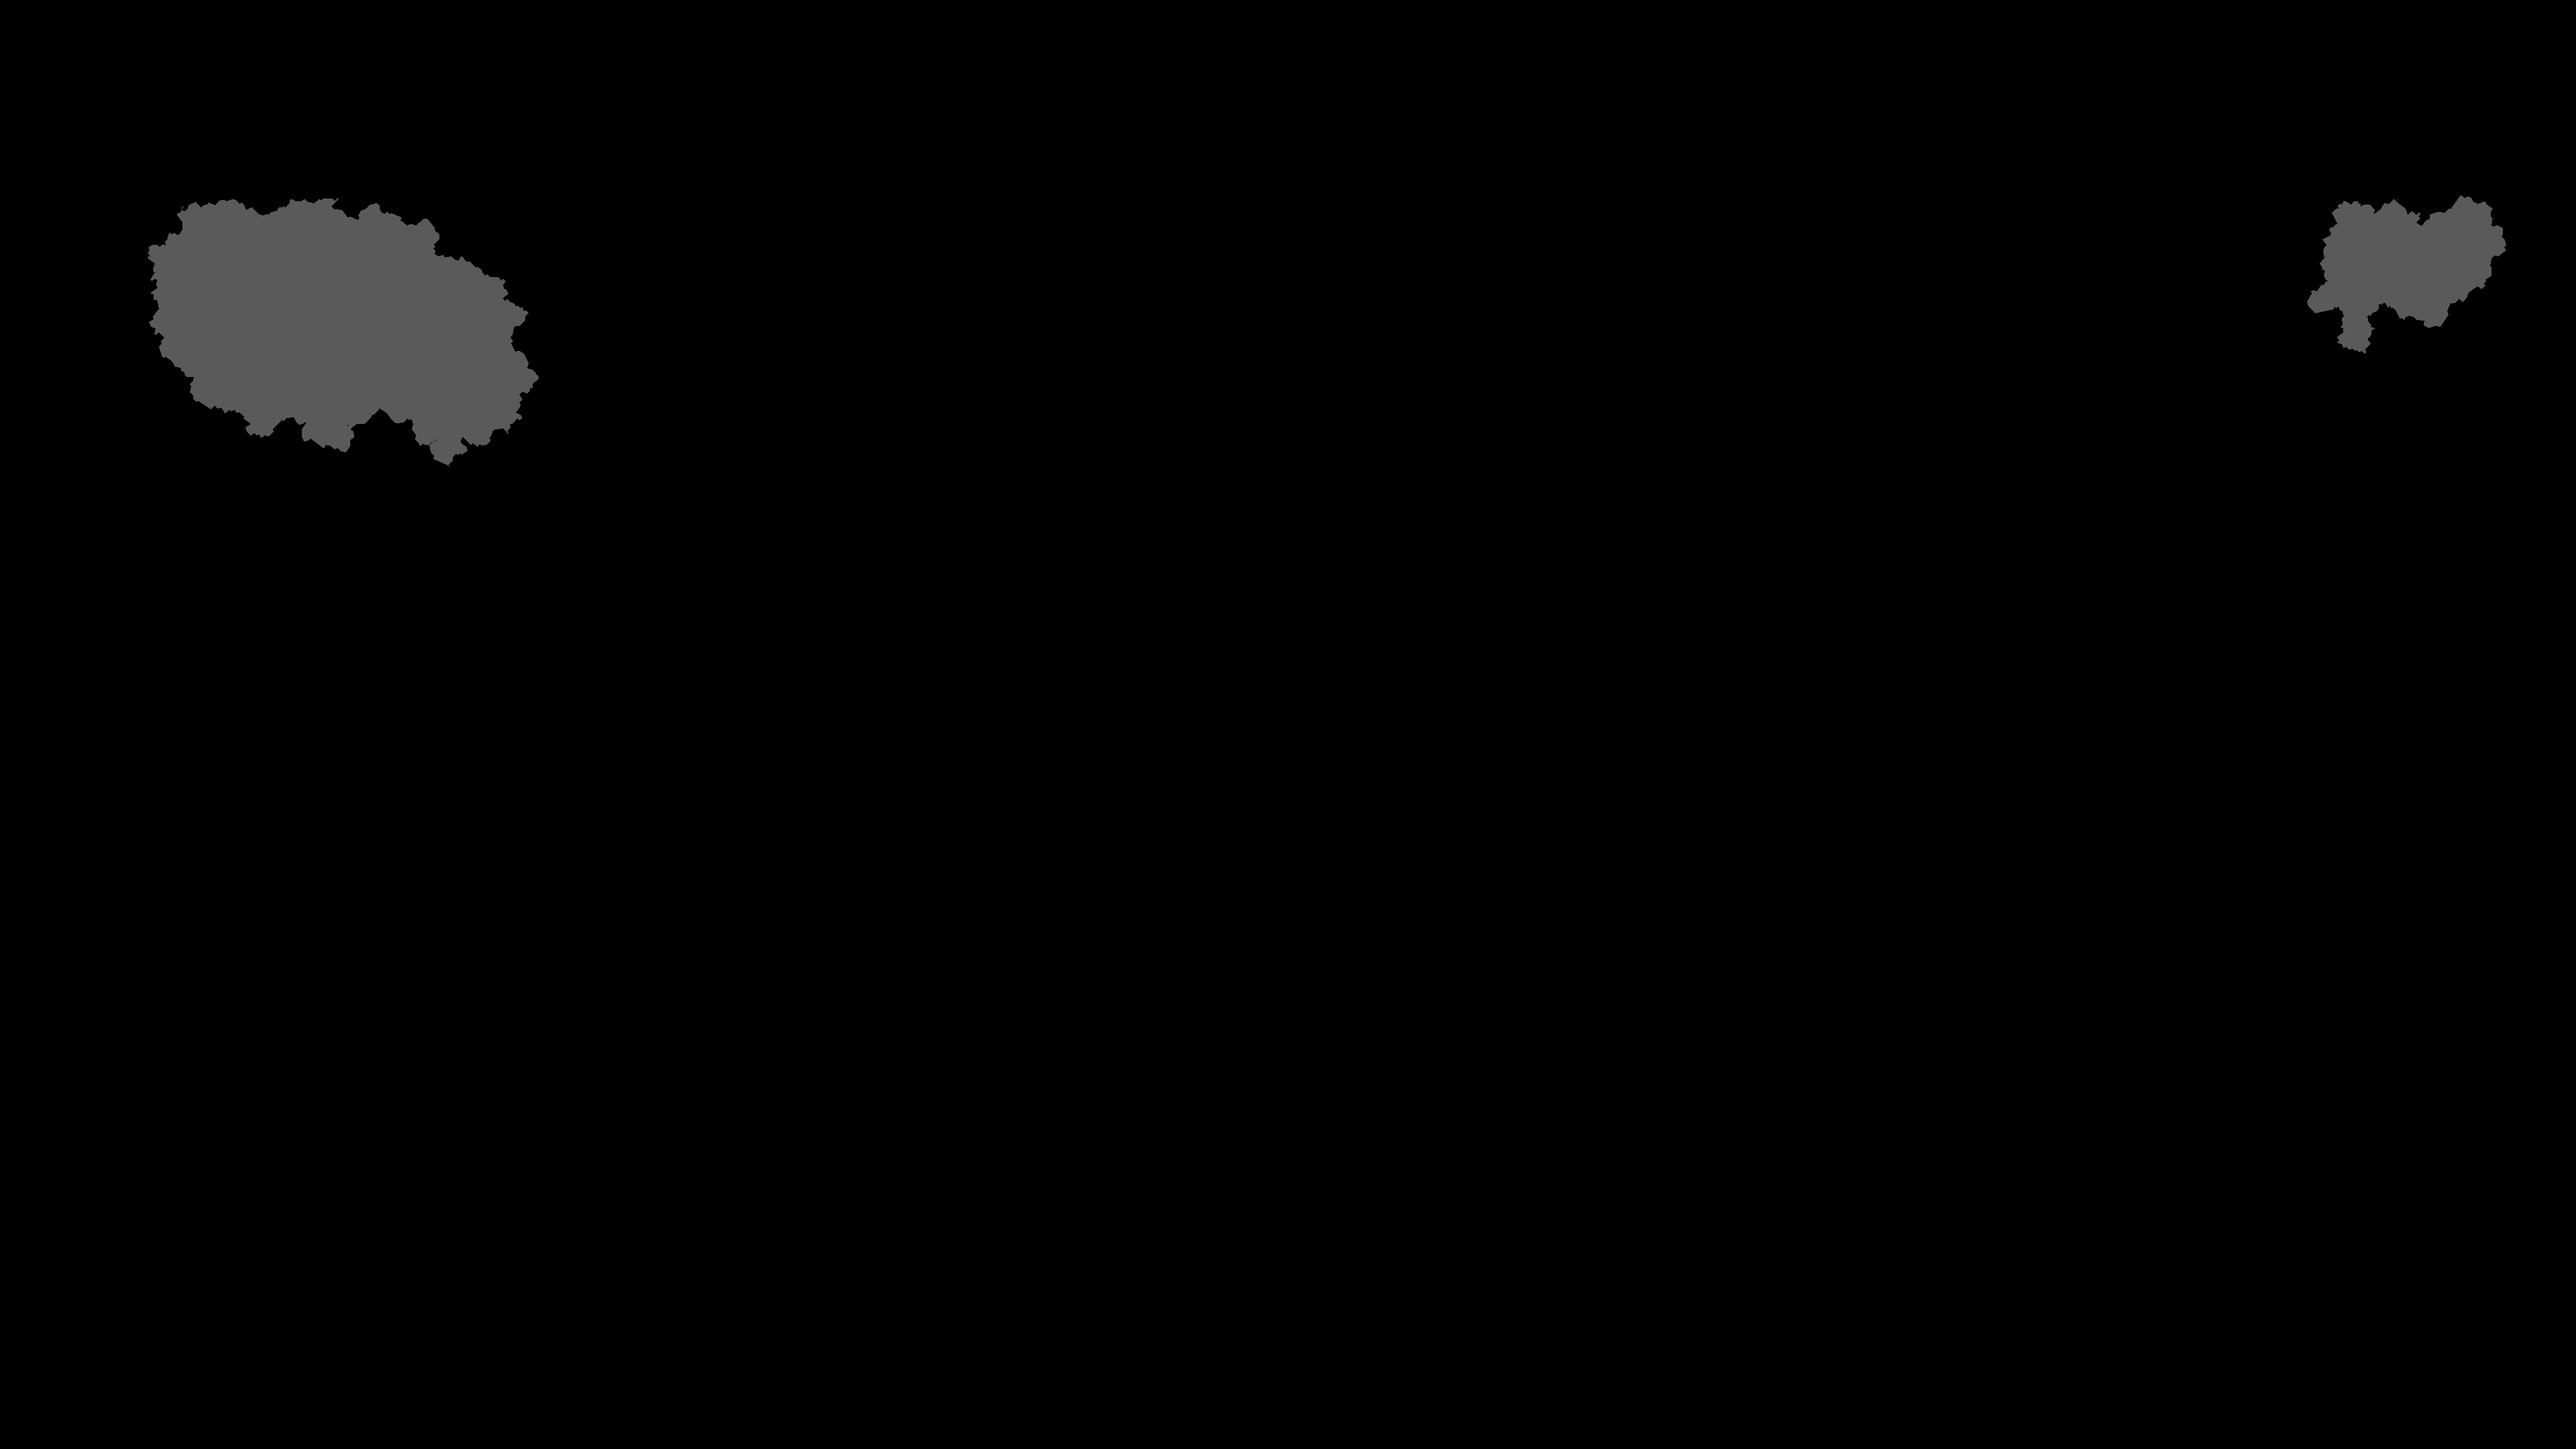
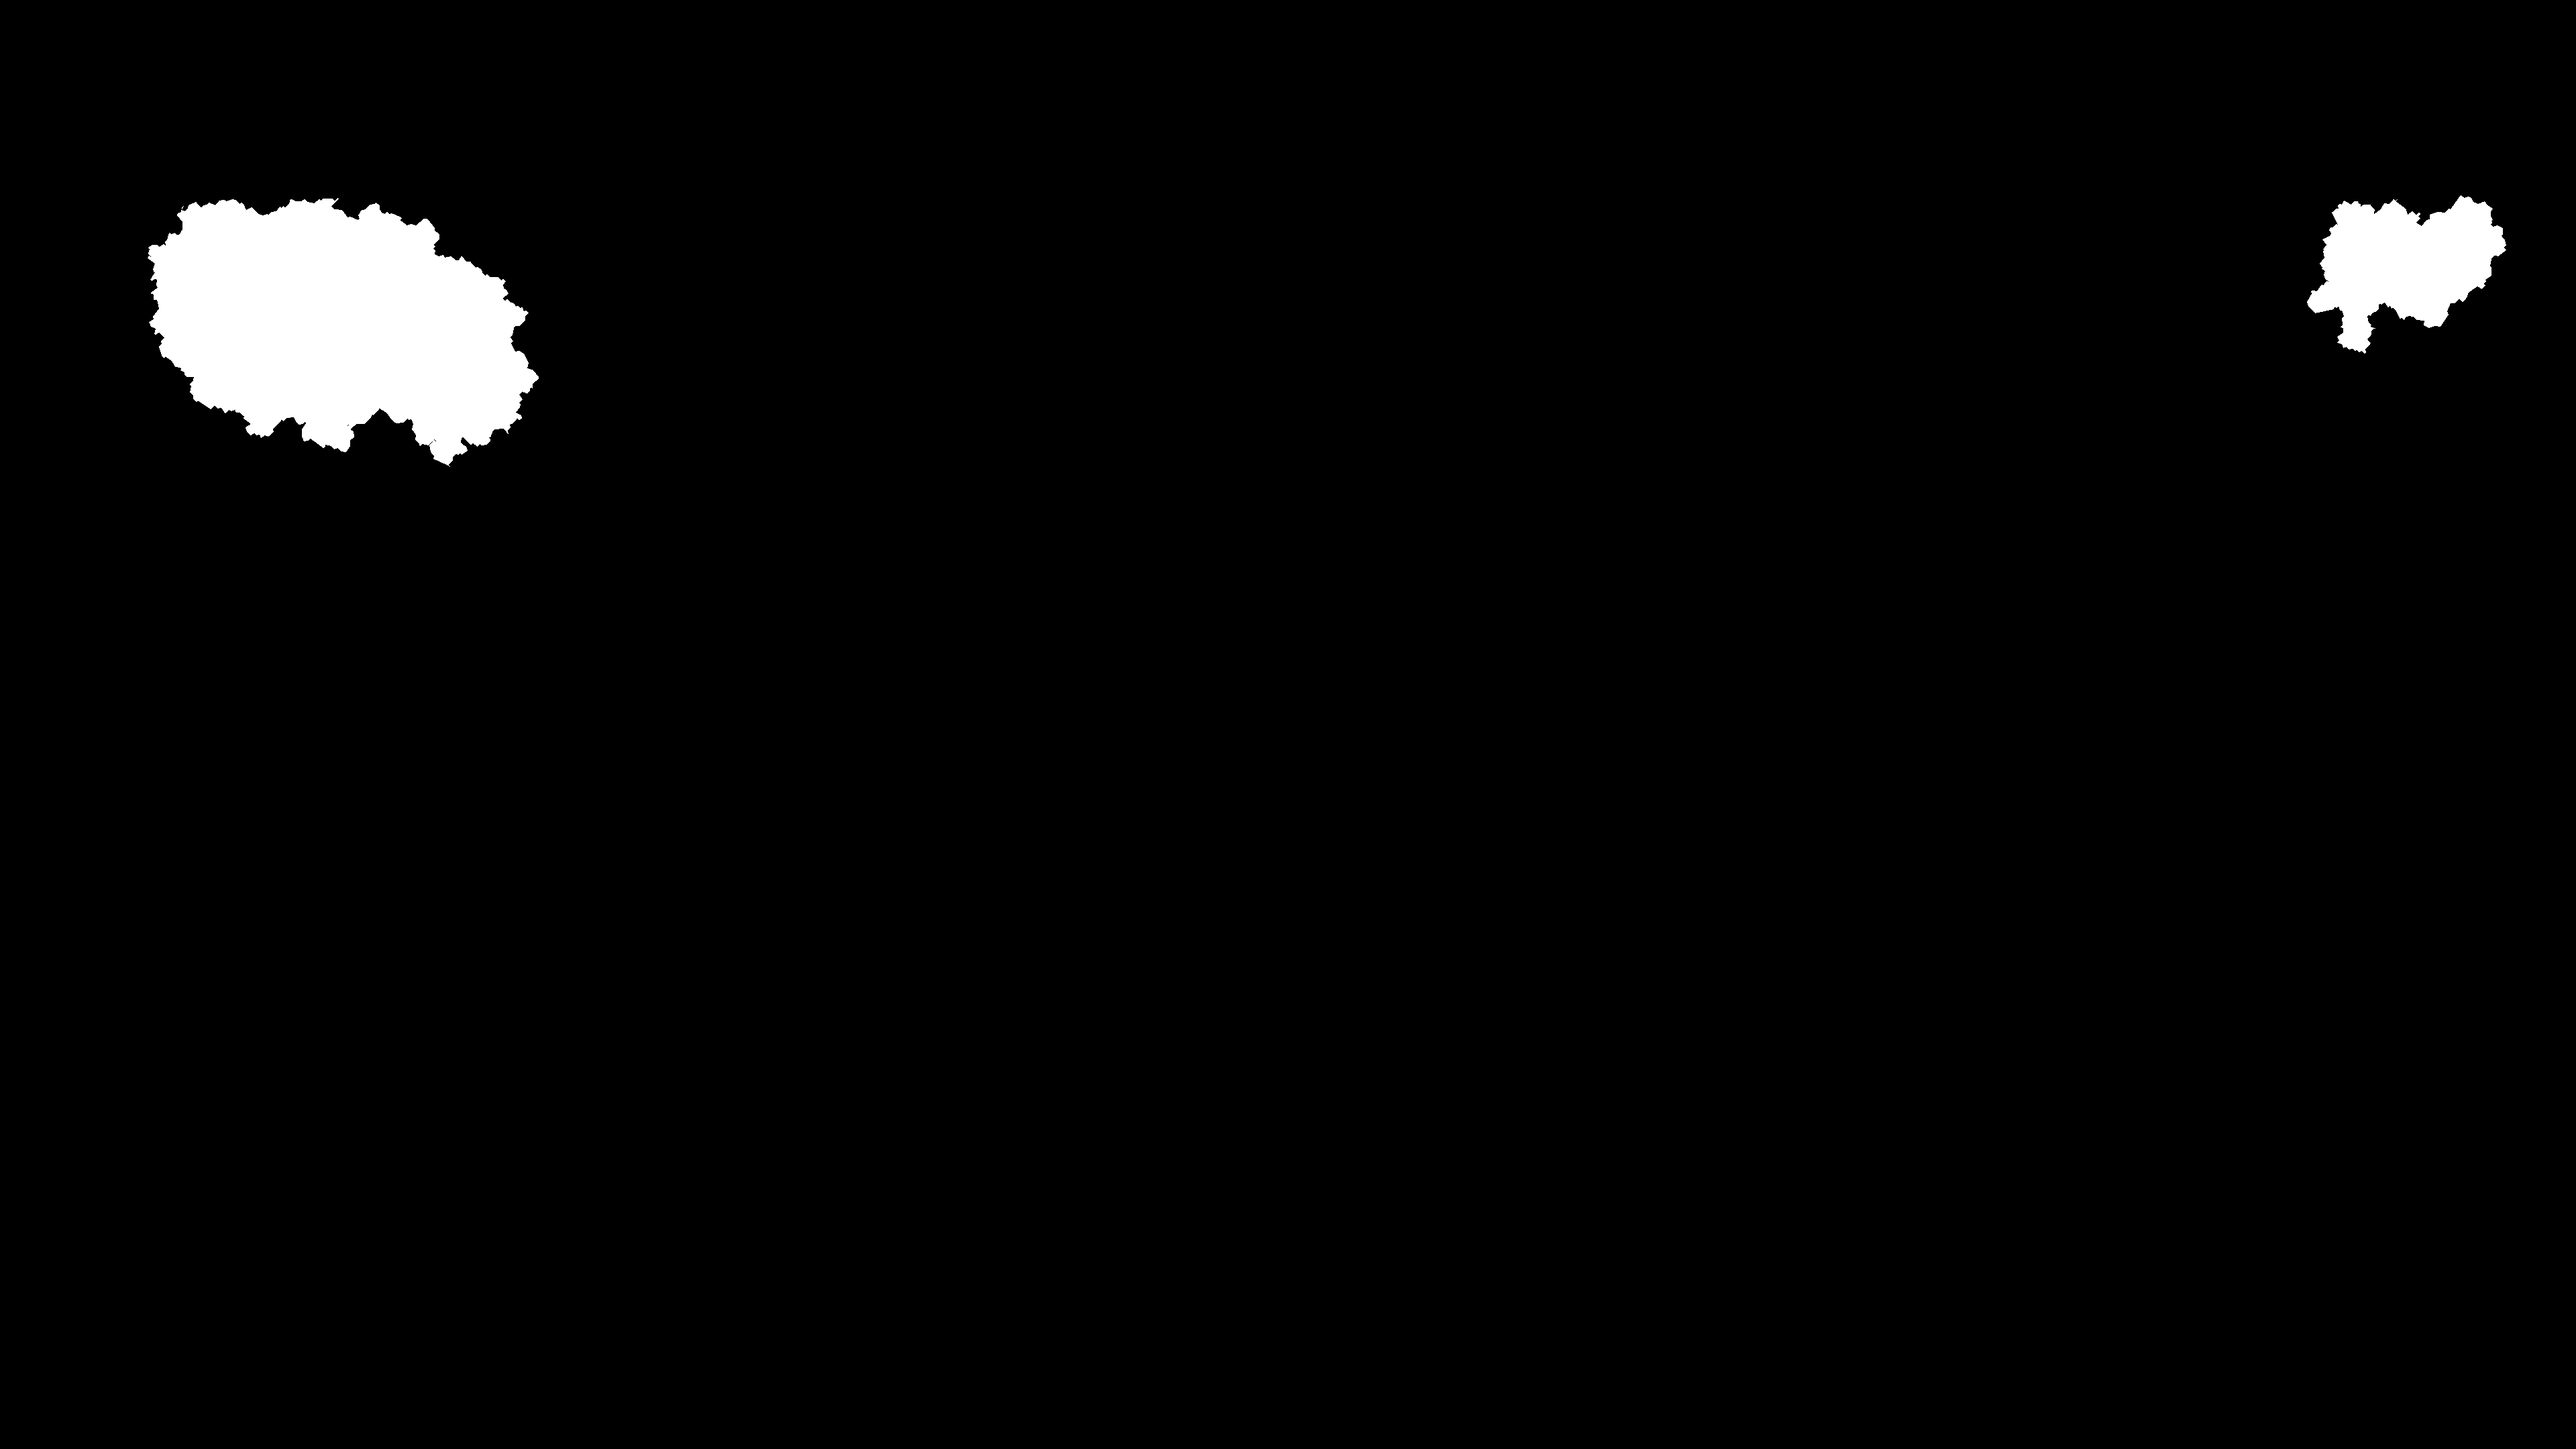
Adicionado a funcionalidade para geração com kornia

Changed region(s): [[0.0625, 0.1241, 0.2188, 0.3102], [0.875, 0.1241, 0.9688, 0.2481]]

diff --git a/datasets/pinus_50m/convert.py b/datasets/pinus_50m/convert.py
@@ -1,29 +1,130 @@
 import os
-import cv2
+from PIL import Image
 import numpy as np
-from tqdm import tqdm
+import cv2 # OpenCV é usado para encontrar contornos
 
-# Diretórios
-input_masks_dir = 'F:\Machine Learning\one-shot-synthesis\datasets\pinus_50m\mask (PNG)'  # onde estão suas máscaras atuais (com 0,1,2)
-output_masks_dir = 'F:\Machine Learning\one-shot-synthesis\datasets\pinus_50m\mask'  # onde vai salvar as novas máscaras (com 0,1)
+def process_image_to_binary_mask(image_path, output_path, select_largest_component=True):
+    """
+    Converte uma imagem para uma máscara binária (preto e branco),
+    onde objetos não-pretos se tornam brancos e o fundo preto.
+    Opcionalmente, seleciona apenas o maior componente conectado.
 
-# Cria o diretório de saída se não existir
-os.makedirs(output_masks_dir, exist_ok=True)
+    Args:
+        image_path (str): Caminho para a imagem de entrada.
+        output_path (str): Caminho para salvar a máscara processada.
+        select_largest_component (bool): Se True, mantém apenas o maior
+                                         componente/contorno na máscara.
+    """
+    try:
+        img = Image.open(image_path).convert('RGB')
+        img_np = np.array(img)
 
-# Lista todos os arquivos da pasta
-mask_files = [f for f in os.listdir(input_masks_dir) if f.endswith('.png') or f.endswith('.jpg')]
+        # Identifica pixels pretos ([0,0,0])
+        # is_black será True para pixels pretos, False para outros
+        is_black = np.all(img_np == [0, 0, 0], axis=-1)
 
-# Para cada máscara
-for mask_file in tqdm(mask_files, desc="Convertendo máscaras"):
-    # Carrega a máscara como grayscale
-    mask_path = os.path.join(input_masks_dir, mask_file)
-    mask = cv2.imread(mask_path, cv2.IMREAD_GRAYSCALE)
+        # Cria a máscara binária:
+        # Pixels não-pretos (objeto) se tornam 1, pixels pretos (fundo) se tornam 0.
+        binary_mask_np = (~is_black).astype(np.uint8)
 
-    # Converte a classe 2 (Pinus derrubado) para 1 (Pinus)
-    mask[mask == 2] = 1
+        if select_largest_component and np.any(binary_mask_np):
+            # Encontra contornos na máscara binária (objetos de valor 1)
+            # cv2.findContours espera uma imagem de 8 bits (0-255), então multiplicamos por 255 temporariamente
+            # ou podemos trabalhar com 0 e 1 e depois converter para 0 e 255.
+            # Aqui, binary_mask_np já é 0 ou 1.
+            contours, _ = cv2.findContours(binary_mask_np, cv2.RETR_EXTERNAL, cv2.CHAIN_APPROX_SIMPLE)
 
-    # Salva a nova máscara
-    output_path = os.path.join(output_masks_dir, mask_file)
-    cv2.imwrite(output_path, mask)
+            if contours:
+                # Encontra o maior contorno pela área
+                largest_contour = max(contours, key=cv2.contourArea)
 
-print(f"\nConversão finalizada! Máscaras salvas em {output_masks_dir}")
+                # Cria uma nova máscara preta e desenha apenas o maior contorno nela
+                output_contour_mask_np = np.zeros_like(binary_mask_np)
+                cv2.drawContours(output_contour_mask_np, [largest_contour], -1, 1, cv2.FILLED) # Desenha com valor 1
+                binary_mask_np = output_contour_mask_np
+            else:
+                # Se não houver contornos (ex: imagem toda preta), a máscara continua sendo de zeros
+                binary_mask_np = np.zeros_like(binary_mask_np)
+
+
+        # Converte a máscara final para valores 0 (fundo) e 255 (objeto)
+        final_mask_np = (binary_mask_np * 255).astype(np.uint8)
+
+        # Salva a imagem como escala de cinza ('L')
+        output_img_pil = Image.fromarray(final_mask_np, mode='L')
+        output_img_pil.save(output_path)
+        # print(f"Processada: {image_path} -> {output_path}")
+
+    except FileNotFoundError:
+        print(f"Erro: Arquivo não encontrado em {image_path}")
+    except Exception as e:
+        print(f"Erro ao processar {image_path}: {e}")
+
+
+def process_directory(input_dir, output_dir, select_largest_component=True):
+    """
+    Processa todas as imagens em um diretório de entrada e salva
+    as máscaras resultantes em um diretório de saída.
+
+    Args:
+        input_dir (str): Diretório contendo as imagens originais.
+        output_dir (str): Diretório onde as máscaras processadas serão salvas.
+        select_largest_component (bool): Passado para process_image_to_binary_mask.
+    """
+    if not os.path.exists(input_dir):
+        print(f"Erro: Diretório de entrada não encontrado: {input_dir}")
+        return
+
+    if not os.path.exists(output_dir):
+        os.makedirs(output_dir)
+        print(f"Diretório de saída criado: {output_dir}")
+
+    supported_extensions = ('.png', '.jpg', '.jpeg', '.bmp', '.tiff', '.webp')
+    processed_count = 0
+    error_count = 0
+
+    print(f"Iniciando processamento do diretório: {input_dir}")
+    for filename in os.listdir(input_dir):
+        if filename.lower().endswith(supported_extensions):
+            image_path = os.path.join(input_dir, filename)
+            
+            # Mantém o nome base do arquivo, mas garante que a saída seja .png
+            base_name = os.path.splitext(filename)[0]
+            output_filename = base_name + ".png" # Salva como PNG
+            output_path = os.path.join(output_dir, output_filename)
+            
+            try:
+                process_image_to_binary_mask(image_path, output_path, select_largest_component)
+                processed_count += 1
+            except Exception: # Captura exceções de process_image_to_binary_mask para contagem
+                error_count +=1
+                
+    print(f"\nProcessamento concluído.")
+    print(f"Total de imagens processadas com sucesso: {processed_count}")
+    if error_count > 0:
+        print(f"Total de imagens com erro no processamento: {error_count}")
+    print(f"Máscaras salvas em: {output_dir}")
+
+
+if __name__ == '__main__':
+    # --- Configuração ---
+    # Substitua pelos seus caminhos de diretório
+    diretorio_imagens_originais = "datasets\pinus_50m\mask (PNG)" # Ex: pasta com 1.png
+    diretorio_mascaras_saida = "datasets\pinus_50m\mask" # Ex: pasta que será o 'mask' para a GAN
+
+    # Se True, tentará isolar o maior objeto na imagem, tornando-a mais parecida
+    # com uma silhueta única (como a do ônibus).
+    # Se False, todas as partes não-pretas da imagem original se tornarão brancas.
+    manter_apenas_maior_componente = False
+    # --- Fim da Configuração ---
+
+    # Verifica se os caminhos de exemplo precisam ser alterados
+    if "caminho/para/suas" in diretorio_imagens_originais or \
+       "caminho/para/suas" in diretorio_mascaras_saida:
+        print("⚠ Atenção! Por favor, edite o script e substitua os valores de")
+        print("'diretorio_imagens_originais' e 'diretorio_mascaras_saida'")
+        print("com os caminhos corretos para os seus diretórios antes de executar.")
+    else:
+        process_directory(diretorio_imagens_originais,
+                          diretorio_mascaras_saida,
+                          select_largest_component=manter_apenas_maior_componente)

diff --git a/core/differentiable_augmentation/diff_augm.py b/core/differentiable_augmentation/diff_augm.py
@@ -29,14 +29,7 @@ class augment_pipe():
             # --- Tentativa 2 (Mais provável para saída de GANs): Pegar o último tensor da lista (maior resolução) ---
             main_images_tensor = original_images_list[-1]
 
-            # --- LINHAS DE DEPURACÃO ADICIONADAS NOVAMENTE PARA ESTA ETAPA ---
-            print(f"DEBUG (após extração): Tipo de 'main_images_tensor': {type(main_images_tensor)}")
-            if isinstance(main_images_tensor, torch.Tensor):
-                print(f"DEBUG (após extração): Dimensões de 'main_images_tensor': {main_images_tensor.ndim}")
-                print(f"DEBUG (após extração): Shape de 'main_images_tensor': {main_images_tensor.shape}")
-            else:
-                print("DEBUG (após extração): 'main_images_tensor' AINDA NÃO É UM TENSOR!")
-            # --- FIM DAS LINHAS DE DEPURACÃO ---
+
 
 
             augmented_main_images = self.augment_func(main_images_tensor)

diff --git a/core/differentiable_augmentation/AugmentPipe_kornia.py b/core/differentiable_augmentation/AugmentPipe_kornia.py
@@ -49,7 +49,7 @@ class AugmentPipe_kornia(torch.nn.Module):
                 tr = kornia.augmentation.RandomRotation(degrees=8, same_on_batch=True)
                 for i in range(sh[0]):
                     x[i] = tr(x[i])
-                tr = kornia.augmentation.CenterCrop(size=(sh[2]*0.80, sh[3]*0.80))
+                tr = kornia.augmentation.CenterCrop(size=(int(sh[2]*0.80), int(sh[3]*0.80)))
                 for i in range(sh[0]):
                     x[i] = tr(x[i])
                     x[i] = torch.nn.functional.interpolate(x[i], size=(sh[2], sh[3]), mode="bilinear")
